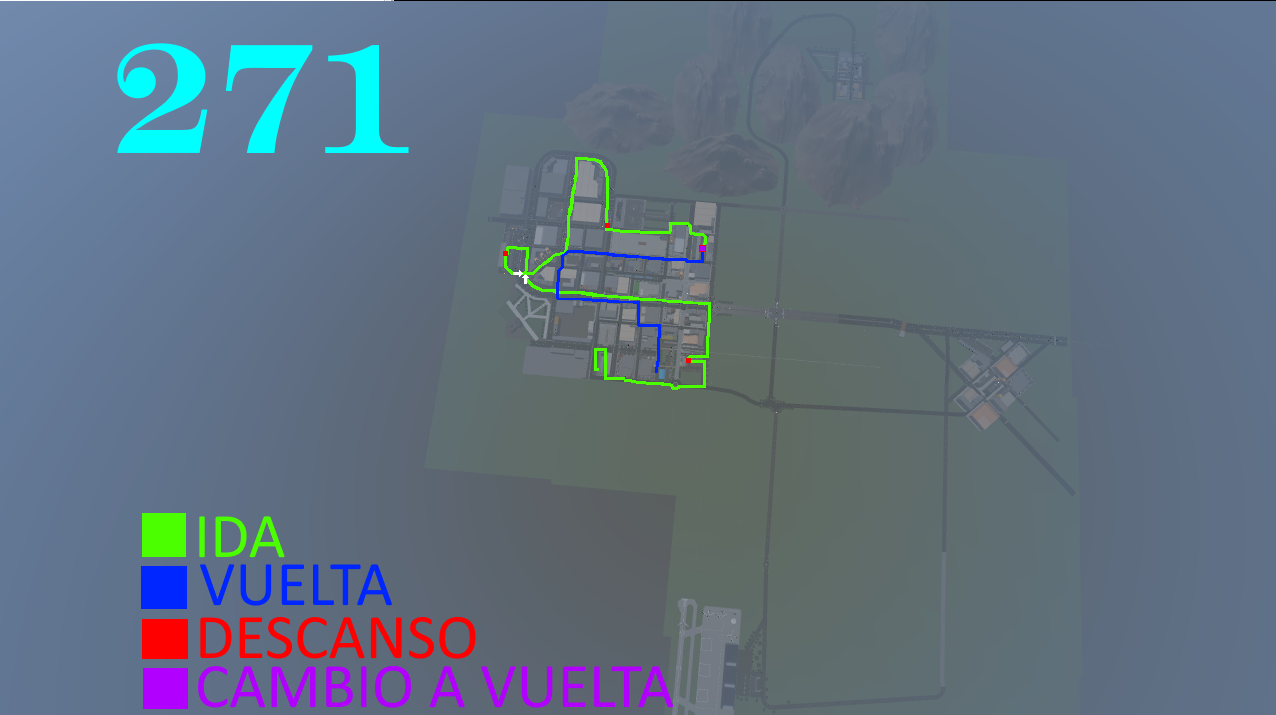
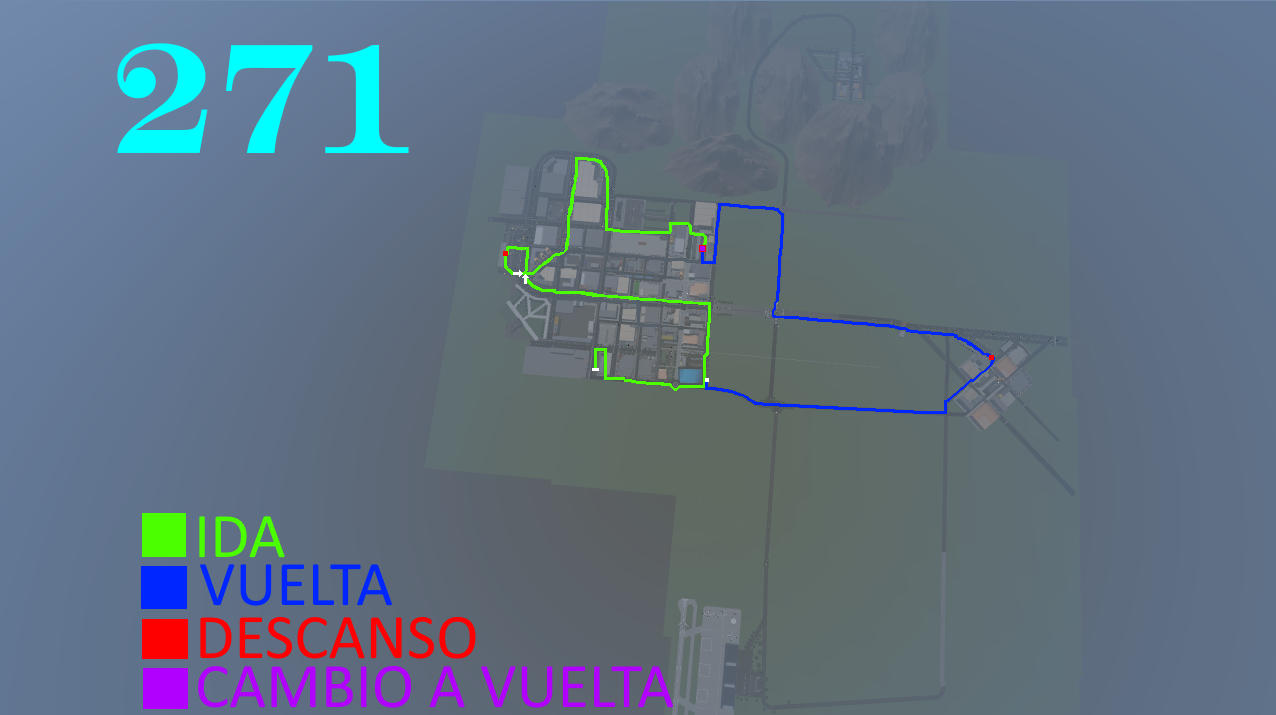
Add files via upload

diff --git a/General Tomas Guido - 3.4.html b/General Tomas Guido - 3.4.html
@@ -1101,7 +1101,7 @@
                 <img src="./ramales/271.png" class="ramal-img">
                 <div class="ramal-info">
                     <strong>RAMAL: 271</strong><br>
-                    Comienza en la Terminal de Omnibus de la Villa, va hasta la Terminal de Barrio, luego va por la avenida principal hasta Retiro, luego de retiro, se agarra el diagonal y se entra al metrobus de 2 carriles, agarra ese cachito de avenida para entrar al metrobus de 6 carriles, luego se dirije a la Terminal de La Cumbre y ahi se para a descansar y tambien a poner la VUELTA. Al arrancar la VUELTA, sale de la terminal y se dirije todo derecho hasta el metrobus de 2 carriles, agarra la mano que va para el lado del depo GTG, al cruzarse con la avenida principal, se doblara a la izquierda para dirijirse al frente del deposito de la empresa para luego terminar el recorrido alli.<br>
+                    Comienza en la Terminal de Omnibus de la Villa, va hasta el depo GTG para dirijirse por ahi a la avenida principal hasta Retiro, luego de retiro, se agarra el diagonal y se entra al metrobus de 2 carriles, agarra ese cachito de avenida para entrar al metrobus de 6 carriles, luego se dirije a la Terminal de La Cumbre y ahi se para a descansar y tambien a poner la VUELTA. En la VUELTA se sale a la izquierda para ir creca de la ruta hacia Lo Altos, luego en la rotonda desvia a la derecha hacia aguas de oro, para luego al cruzar una nueva rotonda se dirija derecho a aguas de oro.Al llegar a alguas de oro, se esperan 2 minutos para salir hacia el depo GTG, para ir al depo, al salir de la terminal de va a la derecha para agarrar el diagonal, luego agarra la calle y luego agarra la primer salida a la derecha. luego sigue todo derecho hasta cruzzarse con el depo y terminar reocrrido al frente del depo.<br>
                     <button type="button" class="boton-seleccion" onclick="seleccionarRamal('271')">Seleccionar Ramal</button>
                 </div>
             </div>

diff --git a/index.html b/index.html
@@ -1101,7 +1101,7 @@
                 <img src="./ramales/271.png" class="ramal-img">
                 <div class="ramal-info">
                     <strong>RAMAL: 271</strong><br>
-                    Comienza en la Terminal de Omnibus de la Villa, va hasta la Terminal de Barrio, luego va por la avenida principal hasta Retiro, luego de retiro, se agarra el diagonal y se entra al metrobus de 2 carriles, agarra ese cachito de avenida para entrar al metrobus de 6 carriles, luego se dirije a la Terminal de La Cumbre y ahi se para a descansar y tambien a poner la VUELTA. Al arrancar la VUELTA, sale de la terminal y se dirije todo derecho hasta el metrobus de 2 carriles, agarra la mano que va para el lado del depo GTG, al cruzarse con la avenida principal, se doblara a la izquierda para dirijirse al frente del deposito de la empresa para luego terminar el recorrido alli.<br>
+                    Comienza en la Terminal de Omnibus de la Villa, va hasta el depo GTG para dirijirse por ahi a la avenida principal hasta Retiro, luego de retiro, se agarra el diagonal y se entra al metrobus de 2 carriles, agarra ese cachito de avenida para entrar al metrobus de 6 carriles, luego se dirije a la Terminal de La Cumbre y ahi se para a descansar y tambien a poner la VUELTA. En la VUELTA se sale a la izquierda para ir creca de la ruta hacia Lo Altos, luego en la rotonda desvia a la derecha hacia aguas de oro, para luego al cruzar una nueva rotonda se dirija derecho a aguas de oro.Al llegar a alguas de oro, se esperan 2 minutos para salir hacia el depo GTG, para ir al depo, al salir de la terminal de va a la derecha para agarrar el diagonal, luego agarra la calle y luego agarra la primer salida a la derecha. luego sigue todo derecho hasta cruzzarse con el depo y terminar reocrrido al frente del depo.<br>
                     <button type="button" class="boton-seleccion" onclick="seleccionarRamal('271')">Seleccionar Ramal</button>
                 </div>
             </div>
